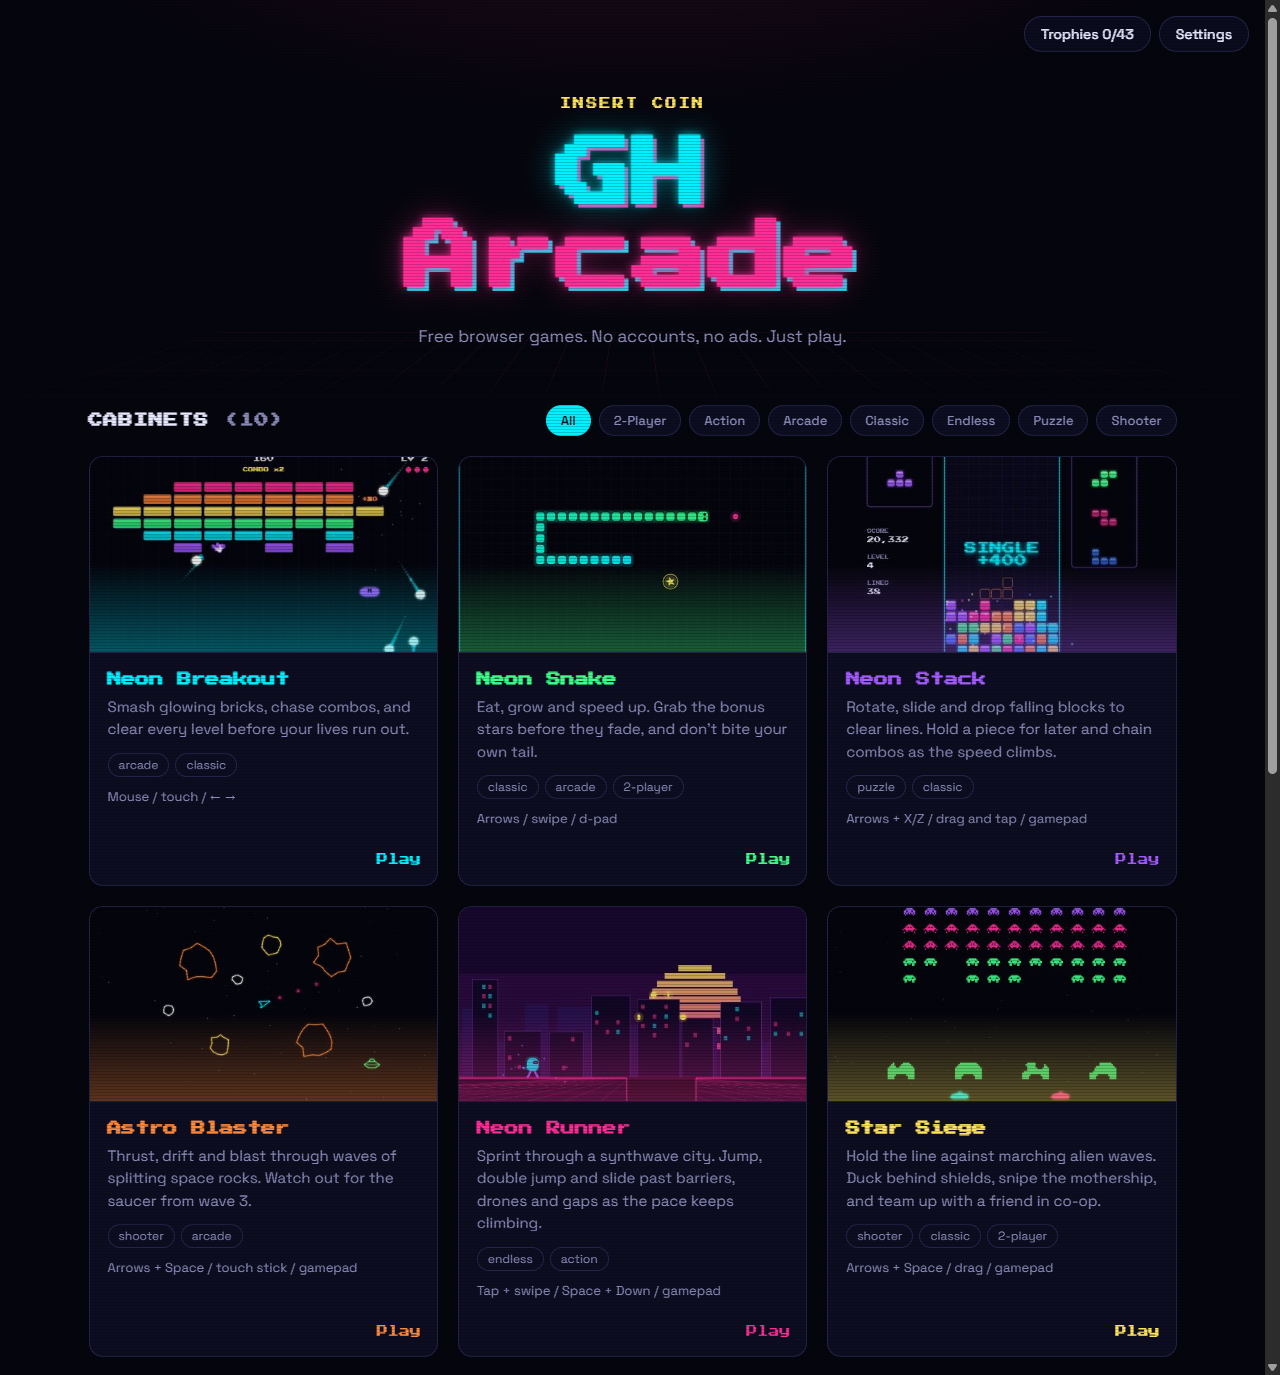
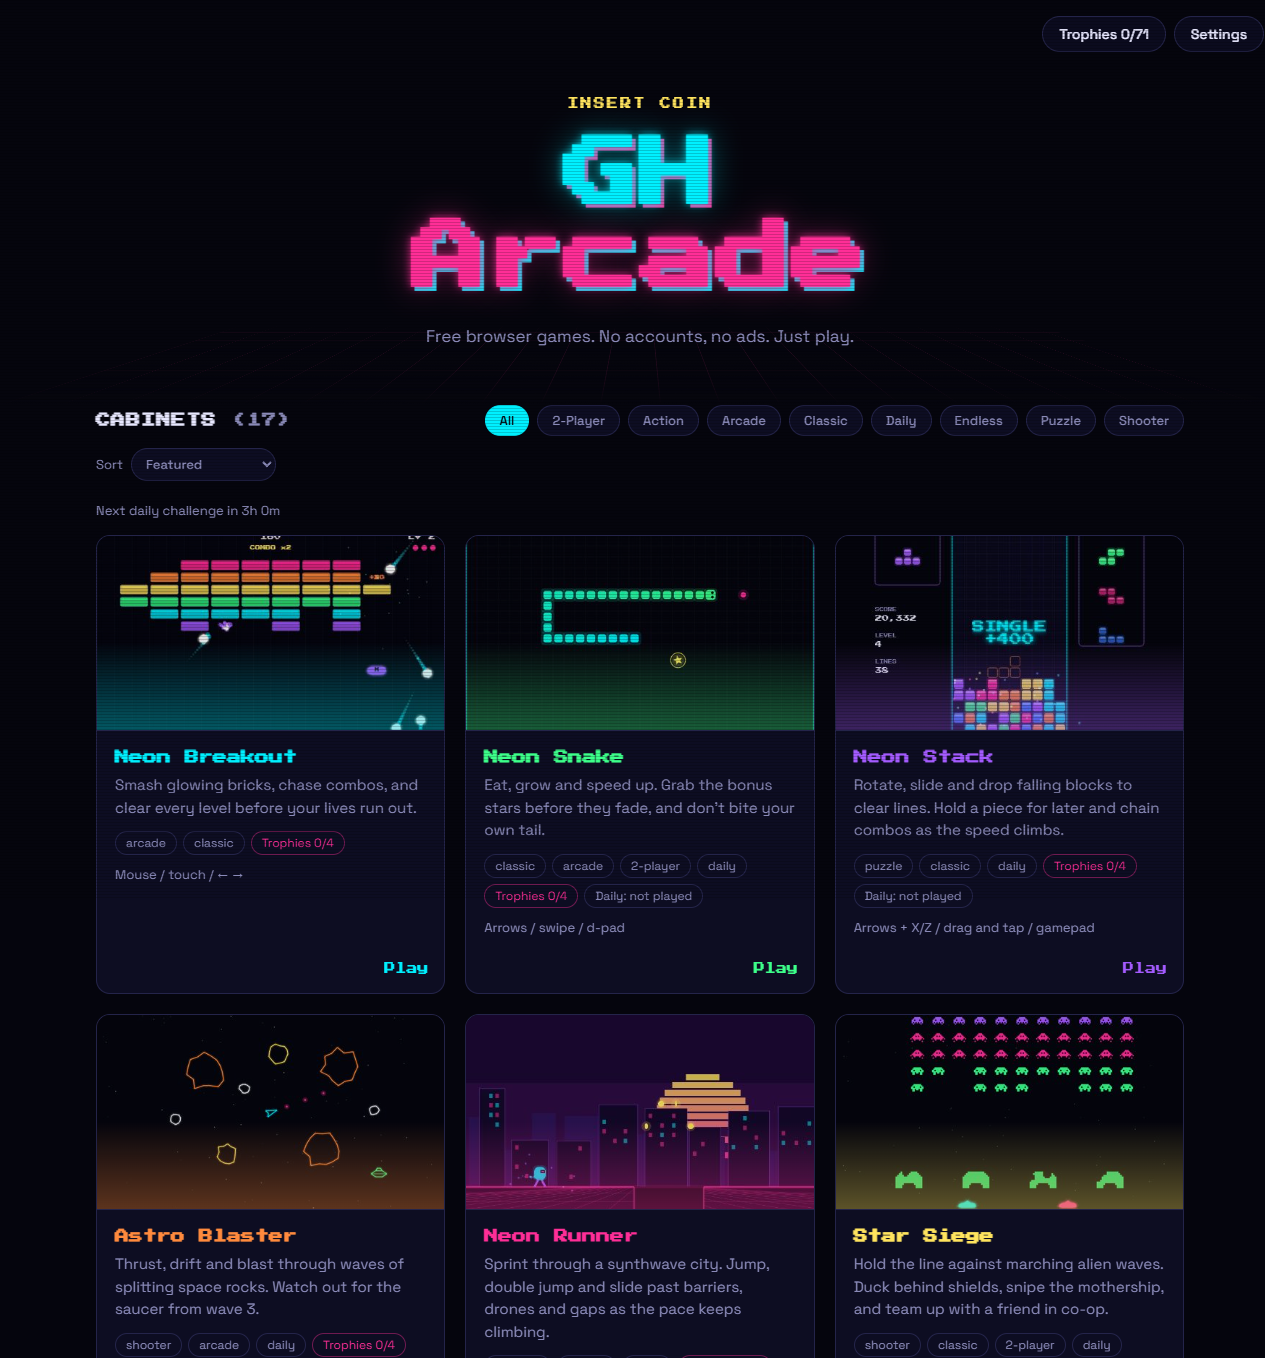
Bring the docs up to date with the seven new games
README: thumbnails on the new game cards, the new games in the
two-player and Daily rows, 71 trophies, a fresh hub screenshot, BEST_KEYS
in the toolkit table and the newer Phaser-free rule modules.
CONTRIBUTING: how to add Golf holes and Crates levels, and when a game
should list BEST_KEYS.

diff --git a/README.md b/README.md
@@ -101,36 +101,43 @@ The classic brick-breaker, rebuilt with a synthwave glow. Five hand-built levels
       <p>A glowing table with pop bumpers, slingshots, a drop-target bank and rollover lanes. Light the lanes to raise the multiplier to x5 across three balls.</p>
     </td>
     <td width="50%" valign="top">
+      <a href="https://tmhsdigital.github.io/GH-Arcade/games/lander/"><img src="public/thumbs/lander.jpg" alt="Neon Lander gameplay: a lander descending toward a glowing pad over jagged terrain" width="100%" /></a>
       <h3><a href="https://tmhsdigital.github.io/GH-Arcade/games/lander/">Neon Lander</a></h3>
       <p>Ease a thrusting lander down onto a glowing pad over rough alien terrain. Land slow and upright to score, then face stronger gravity, narrower pads and wind.</p>
     </td>
   </tr>
   <tr>
     <td width="50%" valign="top">
+      <a href="https://tmhsdigital.github.io/GH-Arcade/games/mines/"><img src="public/thumbs/mines.jpg" alt="Neon Mines gameplay: a grid of revealed number clues and hidden cells" width="100%" /></a>
       <h3><a href="https://tmhsdigital.github.io/GH-Arcade/games/mines/">Neon Mines</a></h3>
       <p>Clear a glowing minefield using the number clues. Easy, medium and hard boards with a best time for each, plus a daily board everyone shares.</p>
     </td>
     <td width="50%" valign="top">
+      <a href="https://tmhsdigital.github.io/GH-Arcade/games/golf/"><img src="public/thumbs/golf.jpg" alt="Neon Golf gameplay: a glowing ball on a walled mini golf green" width="100%" /></a>
       <h3><a href="https://tmhsdigital.github.io/GH-Arcade/games/golf/">Neon Golf</a></h3>
       <p>Nine mini golf holes with sand traps, water, boost pads and sliding blockers. Drag back, let fly, and sink it in as few strokes as you can.</p>
     </td>
   </tr>
   <tr>
     <td width="50%" valign="top">
+      <a href="https://tmhsdigital.github.io/GH-Arcade/games/crates/"><img src="public/thumbs/crates.jpg" alt="Neon Crates gameplay: a robot pushing a crate toward a target" width="100%" /></a>
       <h3><a href="https://tmhsdigital.github.io/GH-Arcade/games/crates/">Neon Crates</a></h3>
       <p>Push every crate onto a target across 15 hand-built warehouse puzzles. Push one at a time, never pull, undo freely and chase par on every level.</p>
     </td>
     <td width="50%" valign="top">
+      <a href="https://tmhsdigital.github.io/GH-Arcade/games/match/"><img src="public/thumbs/match.jpg" alt="Neon Match gameplay: a board of shaped neon gems" width="100%" /></a>
       <h3><a href="https://tmhsdigital.github.io/GH-Arcade/games/match/">Neon Match</a></h3>
       <p>Swap glowing gems to line up three or more. Chain cascades, build line blasts and bombs, and race the clock or make every move count.</p>
     </td>
   </tr>
   <tr>
     <td width="50%" valign="top">
+      <a href="https://tmhsdigital.github.io/GH-Arcade/games/bubbles/"><img src="public/thumbs/bubbles.jpg" alt="Neon Bubbles gameplay: a launcher aiming at a field of colored bubbles" width="100%" /></a>
       <h3><a href="https://tmhsdigital.github.io/GH-Arcade/games/bubbles/">Neon Bubbles</a></h3>
       <p>Bank bubbles off the walls, pop groups of three and cut whole clusters loose for big bonuses before the ceiling creeps down.</p>
     </td>
     <td width="50%" valign="top">
+      <a href="https://tmhsdigital.github.io/GH-Arcade/games/tanks/"><img src="public/thumbs/tanks.jpg" alt="Neon Tanks gameplay: two tanks facing off across glowing hills" width="100%" /></a>
       <h3><a href="https://tmhsdigital.github.io/GH-Arcade/games/tanks/">Neon Tanks</a></h3>
       <p>Lob shells over destructible hills and read the wind. Take on the CPU at three difficulties or a friend in <b>two-player hot seat</b>, best of 3.</p>
     </td>
@@ -216,12 +223,12 @@ Every game also supports <kbd>P</kbd> / <kbd>Esc</kbd> / <kbd>Start</kbd> to pau
 | **Plays anywhere** | A static site on GitHub Pages. Loads straight in the browser on desktop, tablet or phone. |
 | **Installable, works offline** | Install GH Arcade as an app from the hub. After one visit, every game plays with no connection. |
 | **Keyboard, touch or gamepad** | Every game supports all three. Plug in a controller and it just works, including pause on <kbd>Start</kbd>. If a controller disconnects mid-run, the game pauses. |
-| **Two-player** | Neon Snake and Neon Pong have versus modes and Star Siege has co-op, on one keyboard or two gamepads. |
-| **Daily challenges** | Neon Stack, Neon Hop, Neon Runner, Neon Snake, Astro Blaster and Star Siege have a Daily mode: the same game for everyone on a given UTC date, with its own best score and a streak. (In Snake the food and bonus stars follow a shared sequence, so runs match for as long as players steer the same way; in Astro Blaster and Star Siege the rocks, the saucer, the alien fire and the mothership do.) The hub counts down to the next challenge (midnight UTC), a card whose daily is still waiting opens the game on DAILY, and a shared daily result links to it (`games/<slug>/?mode=daily`). |
+| **Two-player** | Neon Snake and Neon Pong have versus modes and Star Siege has co-op, on one keyboard or two gamepads. Neon Tanks is a hot-seat duel, taking turns on one device. |
+| **Daily challenges** | Neon Stack, Neon Hop, Neon Runner, Neon Snake, Astro Blaster, Star Siege, Neon Lander, Neon Mines and Neon Bubbles have a Daily mode: the same game for everyone on a given UTC date, with its own best score and a streak. (In Snake the food and bonus stars follow a shared sequence, so runs match for as long as players steer the same way; in Astro Blaster and Star Siege the rocks, the saucer, the alien fire and the mothership do. Lander shares its terrain, pads and wind, Mines its board, and Bubbles its starting field, its new rows and the bubbles it deals.) The hub counts down to the next challenge (midnight UTC), a card whose daily is still waiting opens the game on DAILY, and a shared daily result links to it (`games/<slug>/?mode=daily`). |
 | **Pause menu and game over** | Every game pauses into a menu: resume, restart, settings (volume, sound, motion, colors and gamepad rumble), main menu or back to the arcade. Game over shows the trophies you just earned, with Play again, Menu and Arcade options. |
 | **Page controls** | On-screen pause and fullscreen buttons, a loading indicator, and a hint to rotate your phone for games that play best in landscape. The screen stays on during a run, even when you play with a gamepad, and may sleep again once you pause or the run ends. |
 | **Couch-friendly hub** | Browse the cabinets with the arrow keys or a gamepad: <kbd>A</kbd> opens a game, <kbd>LB</kbd> <kbd>RB</kbd> switch filters, <kbd>Y</kbd> shows trophies and <kbd>Start</kbd> opens settings. Inside a panel, up and down move between its controls (and scroll it), left and right change a slider, <kbd>A</kbd> presses a button or ticks a box, and <kbd>B</kbd> closes it. |
-| **Trophies and stats** | 43 trophies across the arcade, with plays and best scores per game in the Trophies panel. Saved on your device, no sign-up. |
+| **Trophies and stats** | 71 trophies across the arcade, with plays and best scores per game in the Trophies panel. Saved on your device, no sign-up. |
 | **Settings and accessibility** | Volume, reduced motion (no shake or flashes), a colorblind-friendly palette, rebindable keys and gamepad buttons, gamepad rumble on impacts (can be turned off), and touch options: button size, a left-handed layout and vibration. |
 | **Zero-asset audio** | Sound effects are synthesized live with the Web Audio API, so there are no audio files to download. |
 | **Fast loads** | Each game is its own page and bundle. Phaser is split into one shared file that your browser caches across games. |
@@ -329,7 +336,7 @@ startArcadeGame({ scenes: [MenuScene, GameScene, ArcadeGameOverScene] });
 | [`phaser-config.ts`](shared/phaser-config.ts) | `startArcadeGame()`: fit-to-screen Phaser setup with gamepads enabled, once the pixel font has loaded. |
 | [`storage.ts`](shared/storage.ts) | `loadJSON()` and `saveJSON()`, backed by `localStorage` that never throws. If the browser blocks saved data, every page says so once (`storage-notice.ts`). |
 | [`sfx.ts`](shared/sfx.ts) | `tone()` and `noise()`: retro sound effects synthesized with Web Audio. |
-| [`achievements.ts`](shared/achievements.ts) | Trophies, stats and best scores. Each game lists its trophies in its own `trophies.ts` and gets type-checked `unlock()`, `reach()` and `addCounter()` helpers from `trophiesFor()`; `getHighScore()` returns a game's best and `getTopScores()` its five highest. Unlocks pop up as a [toast](shared/toast.ts). |
+| [`achievements.ts`](shared/achievements.ts) | Trophies, stats and best scores. Each game lists its trophies in its own `trophies.ts` and gets type-checked `unlock()`, `reach()` and `addCounter()` helpers from `trophiesFor()`; `getHighScore()` returns a game's best and `getTopScores()` its five highest. Unlocks pop up as a [toast](shared/toast.ts). A game that saves bests of its own lists their keys as `BEST_KEYS` in `trophies.ts`, so resetting best scores clears them too. |
 | [`settings.ts`](shared/settings.ts) | Player settings (volume, reduced motion, palette, key and gamepad bindings, rumble) that every game reads on start. |
 | [`backup.ts`](shared/backup.ts) | Export, import (replace or merge) and reset of everything saved on the device, used by the hub's settings dialog. |
 | [`rng.ts`](shared/rng.ts) | `createRng(seed)`: repeatable random numbers with `between`, `pick` and `shuffle`, plus what a daily challenge needs: `dailySeed()`, `dailyRng()`, `DAILY_MODES` for the menu (or `DAILY_MODE_LABEL` to add DAILY to a menu that already has modes), per-day best scores with history and a streak, `dailyRunFrom()` and `diceFor()` to seed a scene's random choices, and `dailyResult()` for the game-over line. Give the game the `daily` tag in `registry.json` so the hub shows today's result. |
@@ -398,7 +405,7 @@ Each game folder has the same shape: `index.html`, `main.ts` (boots Phaser), `co
 - **Shared Phaser chunk.** Phaser is about 340 KB gzipped. It's split into its own file so it downloads once and is cached for every game.
 - **Procedural art and audio.** Games draw their graphics in code and synthesize their sounds, so each game adds only a few KB on top of Phaser.
 - **One input layer.** Games ask `ArcadeControls` about actions ("left", "action") instead of keys, so keyboard, gamepad and touch all work without per-game plumbing.
-- **Rules separate from rendering where it pays off.** Neon Stack's rules are pure functions in `logic.ts`, which keeps rotation, wall kicks and line clears easy to test. Snake, Maze, Runner, Hop and Pong keep theirs in Phaser-free modules too (`logic.ts`, `chase.ts`, `rules.ts`).
+- **Rules separate from rendering where it pays off.** Neon Stack's rules are pure functions in `logic.ts`, which keeps rotation, wall kicks and line clears easy to test. Snake, Maze, Runner, Hop and Pong keep theirs in Phaser-free modules too (`logic.ts`, `chase.ts`, `rules.ts`), and so does every newer game: Lander's physics, the Mines board, Golf's ball and holes, the Crates rules, the Match board, the Bubbles hex grid and the Tanks terrain, shells and CPU are all tested without Phaser.
 - **Offline first.** Everything is precached at build time, and all pages share one font stylesheet so a single visit caches it for every game.
 
 </details>

diff --git a/CONTRIBUTING.md b/CONTRIBUTING.md
@@ -45,6 +45,7 @@ Tests live next to the code as `*.test.ts`. If you add logic that does not need 
 - **Fill in the hub card.** Edit the game's entry in [`games/registry.json`](games/registry.json): description, tags, accent color and controls hint.
 - **Thumbnail.** Optional, but nice: a 16:9 JPEG screenshot of gameplay at `public/thumbs/<slug>.jpg`, kept small (aim for 20 KB or less), referenced as `"thumbnail": "thumbs/<slug>.jpg"`. Without one the card shows the first letter of the title.
 - **Trophies.** List up to four trophies in the game's own `trophies.ts`; the arcade picks the file up automatically. Unlock them through `trophiesFor<typeof TROPHIES>()`, which type-checks the ids. A trophy earned at a number (a score, a level) declares it as `threshold` beside its description, and the game calls `reach(id, value)` instead of comparing against the number itself.
+- **Bests of your own.** The arcade keeps one best score per game, higher is better. If the game also saves bests of its own (per mode, per difficulty, a best time), export their storage keys as `BEST_KEYS` from its `trophies.ts` (see [`games/mines/trophies.ts`](games/mines/trophies.ts)) so "Reset best scores" in the hub clears them too.
 - **Extra controls.** If the game adds keys or gamepad buttons beside the shared actions, list them in the game's own `controls.ts` as `EXTRA_CONTROLS` (see [`games/stack/controls.ts`](games/stack/controls.ts)) and pass that to `ArcadeControls`. The hub reads it to warn a player who gives Pause or Mute a key or button the game already uses.
 
 ## Level designs
@@ -53,6 +54,8 @@ Levels are plain text grids, so a new one needs no engine knowledge.
 
 - **Neon Maze.** Layouts live in [`games/maze/maze.ts`](games/maze/maze.ts), each written as its left half (the right half is mirrored). Add yours to `LAYOUTS`; levels play them in order and start over after the last. Keep rows 6 to 12 and the runner's start as they are, join your corridors to that middle block, and leave no dead ends. `npm test` checks every layout for all of this, so a layout that passes is playable.
 - **Neon Breakout.** Brick layouts are the `LEVELS` list in [`games/breakout/config.ts`](games/breakout/config.ts): one string per row, with `.` for a gap and `1` to `3` for how many hits a brick takes.
+- **Neon Golf.** Holes are the `HOLES` list in [`games/golf/holes.ts`](games/golf/holes.ts), up to 20 columns by 13 rows: `#` wall, `.` green, `s` sand, `w` water, `>` `<` `^` `v` boost pads, one `T` tee and one `O` cup, and a space for out of bounds. Sliding blockers go in the hole's `movers`. `npm test` checks every hole and plays it with a brute-force golfer, so a hole whose `par` cannot be made fails.
+- **Neon Crates.** Levels are the `LEVELS` list in [`games/crates/levels.ts`](games/crates/levels.ts), easiest first: `#` wall, `$` crate, `.` target, `*` crate on a target, `@` robot, `+` robot on a target, and a space or `-` for floor. `par` must be the fewest moves that solve the level: `npm test` runs a solver and tells you the right number. Adding a level also means raising the `threshold` of the Master Mover trophy in `games/crates/trophies.ts` to the new level count, which a test checks too.
 
 ## Style
 
